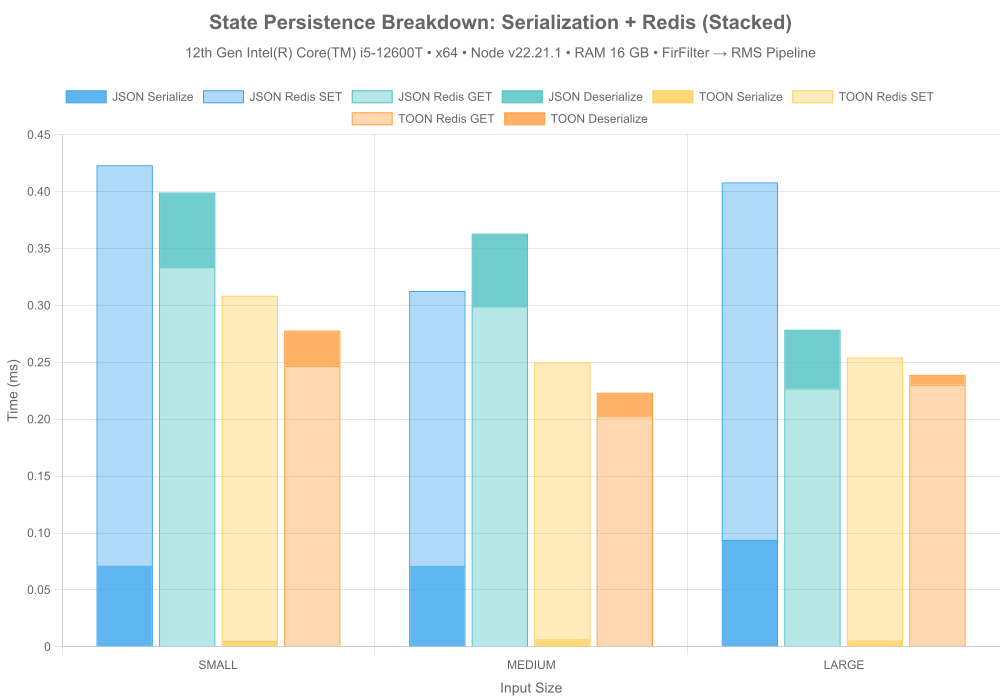
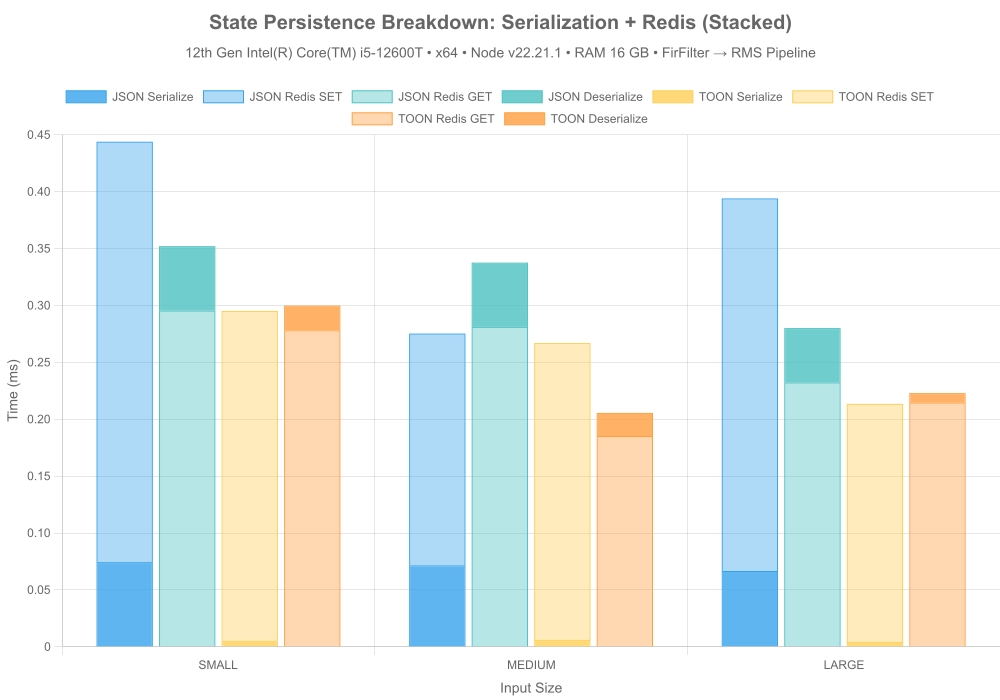
Update benchmarks for 12th Gen Intel Core i5-12600T: enhance performance metrics and refresh auto-generated date

diff --git a/reports/BENCHMARKS-12th-gen-intel-core-i5-12600t.md b/reports/BENCHMARKS-12th-gen-intel-core-i5-12600t.md
@@ -196,31 +196,31 @@ Testing pipeline state serialization for crash recovery (FirFilter → RMS pipel
 
 | Input Size | Format | Serialize | Redis SET | Redis GET | Deserialize | Total Save | Total Load | State Size | Seamless |
 |------------|--------|-----------|-----------|-----------|-------------|------------|------------|------------|----------|
-| SMALL | JSON | 0.071 | 0.352 | 0.334 | 0.066 | 0.423 | 0.399 | 5.88 KB | ✅ |
-| SMALL | TOON | 0.005 | 0.303 | 0.247 | 0.031 | 0.309 | 0.278 | 1.65 KB | ✅ |
-| MEDIUM | JSON | 0.071 | 0.242 | 0.299 | 0.064 | 0.313 | 0.363 | 5.89 KB | ✅ |
-| MEDIUM | TOON | 0.007 | 0.243 | 0.202 | 0.021 | 0.250 | 0.223 | 1.65 KB | ✅ |
-| LARGE | JSON | 0.094 | 0.314 | 0.227 | 0.052 | 0.408 | 0.279 | 5.79 KB | ✅ |
-| LARGE | TOON | 0.006 | 0.249 | 0.230 | 0.009 | 0.254 | 0.239 | 1.65 KB | ✅ |
+| SMALL | JSON | 0.074 | 0.370 | 0.295 | 0.057 | 0.444 | 0.352 | 5.88 KB | ✅ |
+| SMALL | TOON | 0.005 | 0.290 | 0.278 | 0.022 | 0.295 | 0.300 | 1.65 KB | ✅ |
+| MEDIUM | JSON | 0.072 | 0.204 | 0.281 | 0.056 | 0.275 | 0.338 | 5.89 KB | ✅ |
+| MEDIUM | TOON | 0.006 | 0.261 | 0.185 | 0.020 | 0.267 | 0.206 | 1.65 KB | ✅ |
+| LARGE | JSON | 0.067 | 0.327 | 0.232 | 0.048 | 0.394 | 0.280 | 5.79 KB | ✅ |
+| LARGE | TOON | 0.004 | 0.209 | 0.215 | 0.008 | 0.213 | 0.223 | 1.65 KB | ✅ |
 
 **Performance Metrics:**
 
 **JSON Format:**
-- Serialization time: **0.079 ms**
-- Deserialization time: **0.060 ms**
-- Redis SET time: **0.303 ms**
-- Redis GET time: **0.287 ms**
-- **Total save time: 0.381 ms**
-- **Total load time: 0.347 ms**
+- Serialization time: **0.071 ms**
+- Deserialization time: **0.054 ms**
+- Redis SET time: **0.300 ms**
+- Redis GET time: **0.270 ms**
+- **Total save time: 0.371 ms**
+- **Total load time: 0.323 ms**
 - State size: **5.85 KB**
 
 **TOON Format:**
-- Serialization time: **0.006 ms**
-- Deserialization time: **0.020 ms**
-- Redis SET time: **0.265 ms**
-- Redis GET time: **0.227 ms**
-- **Total save time: 0.271 ms**
-- **Total load time: 0.247 ms**
+- Serialization time: **0.005 ms**
+- Deserialization time: **0.017 ms**
+- Redis SET time: **0.253 ms**
+- Redis GET time: **0.226 ms**
+- **Total save time: 0.259 ms**
+- **Total load time: 0.243 ms**
 - State size: **1.65 KB**
 
 **Overall:**
@@ -579,5 +579,5 @@ Measuring safety margin between processing time and buffer duration:
 ---
 
 **Generated by:** dspx benchmark suite v1.0  
-**Date:** 2026-01-29T13:26:57.597Z  
+**Date:** 2026-01-29T13:29:44.421Z  
 **Runtime:** Node.js v22.21.1
